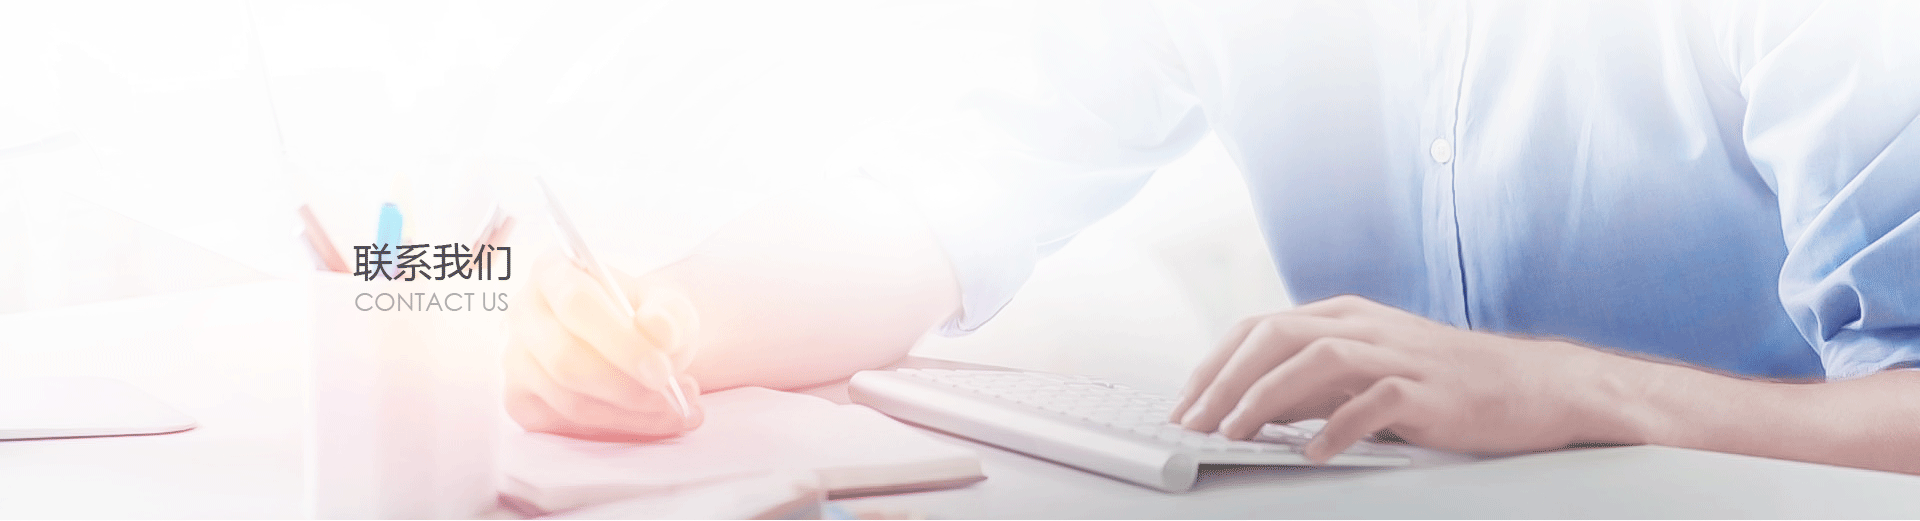
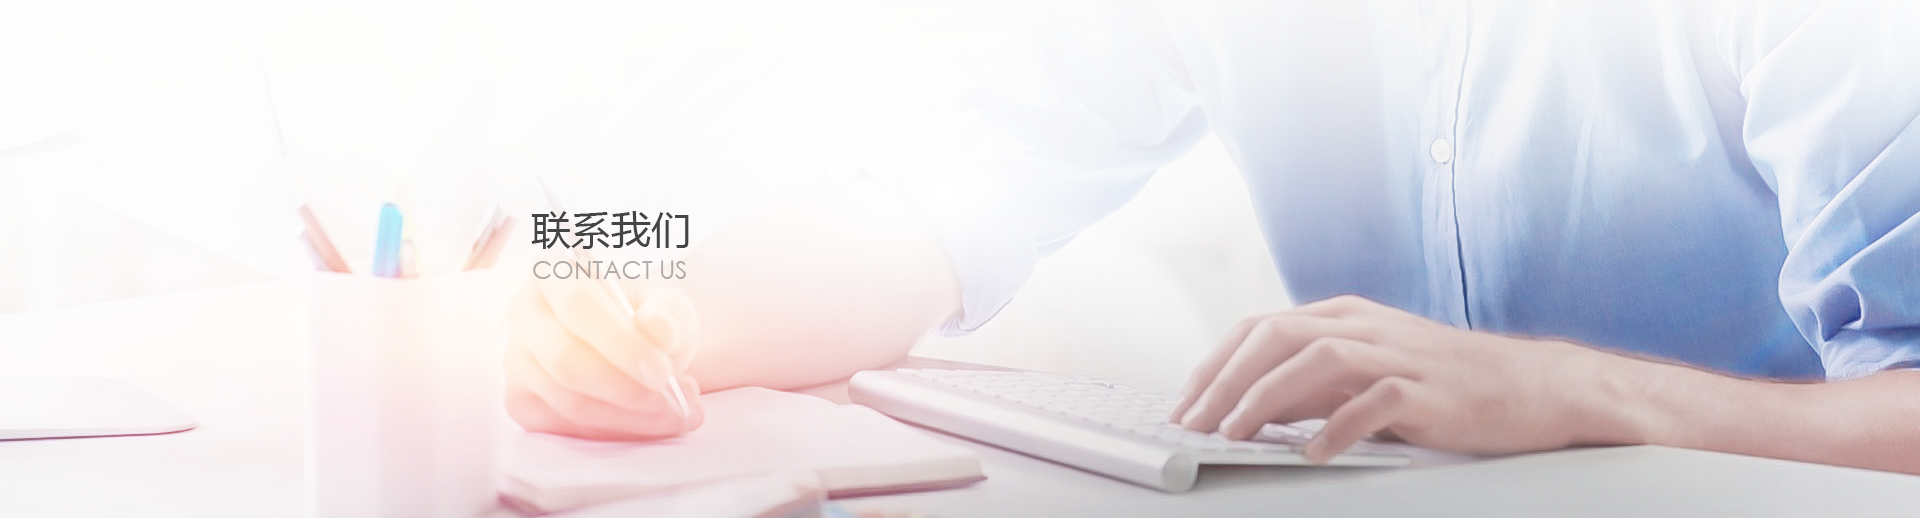
更新

diff --git a/css/contact.css b/css/contact.css
@@ -9,7 +9,7 @@
 .contact-content h4 {
     text-align: center;
     margin: 20px 0px 50px 0px;
-    font-size: 24px;
+    font-size: 28px;
     letter-spacing: 1px;
 }
 
@@ -30,7 +30,7 @@
 }
 
 .form-sec p:nth-child(2) {
-    font-size: 22px;
+    font-size: 20px;
 }
 
 .form-sec p:nth-child(3) {
@@ -135,7 +135,8 @@
     }
     .contact-form {
         display: flex;
-        flex-flow: row
+        flex-flow: row;
+        width: 65%;
     }
     .form-left {
         width: 290px;
@@ -187,15 +188,15 @@
         letter-spacing: 1px;
     }
     .form-left {
-        min-width: 420px;
-        min-width: 420px;
+        min-width: 440px;
+        min-width: 440px;
     }
     .form-sec p {
         font-size: 18px;
         line-height: 30px;
     }
     .form-sec p:nth-child(2) {
-        font-size: 22px;
+        font-size: 24px;
     }
     .form-sec p:nth-child(3) {
         font-size: 14px;

diff --git a/contact.html b/contact.html
@@ -49,9 +49,14 @@
         </div>
     </header>
 
+    <section class="about-bg img-responsive">
+
+    </section>
+
     <section class="contact-top">
         <div class="contact-bg">
-            <img src="./img/contact/contact_bg.png" alt="">
+            <img class="hidden-xs hidden-sm" src="./img/contact/contact_bg.png" alt="">
+            <img class="visible-xs-block visible-sm-block" src="./img/contact/contact_bg_xs.png" alt="">
         </div>
     </section>
 
